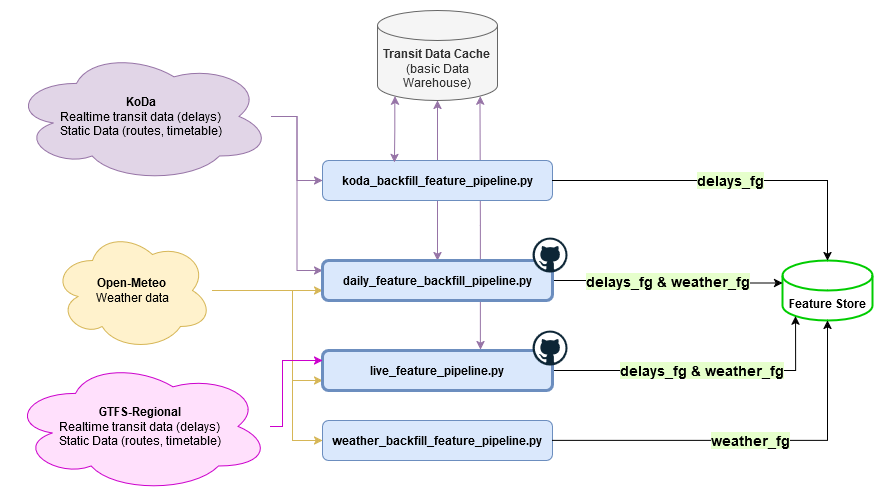
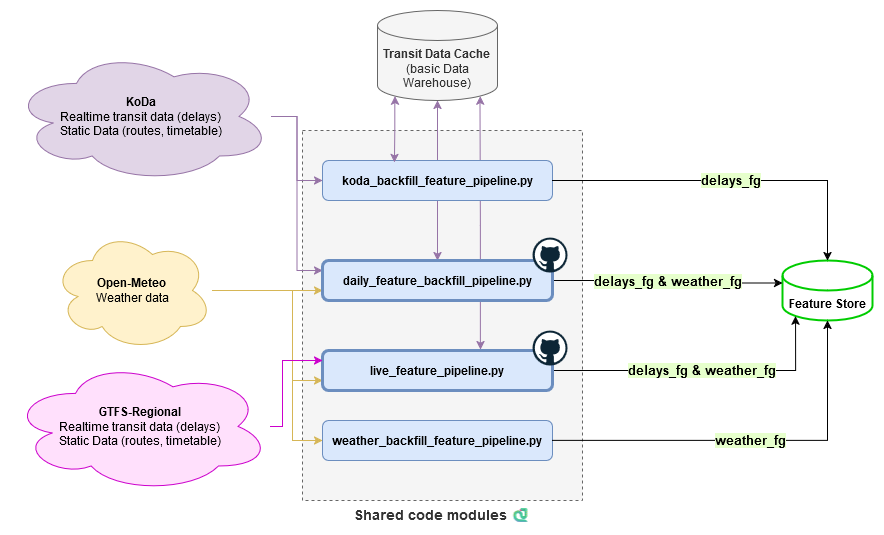
Highlight shared data processing code and update data collection diagram.

diff --git a/README.md b/README.md
@@ -38,6 +38,8 @@ While most transit APIs provide only real-time data which is updated and overwri
 
 This data is structured in the [GTFS](https://gtfs.org/documentation/overview/) format, but the snapshots needed to be merged and cleaned to be useful features.
 Additionally, any features we created from the historical data also needed to be created from real-time data ([GTFS-Regional API](https://www.trafiklab.se/api/gtfs-datasets/gtfs-regional/)) for our inference pipeline.
+To make this process easier, we created reusable data processing modules and functions, so the historical and live pipelines share
+multiple parts of their code (chiefly the feature transformations in `shared/features`).
 
 #### Historical Backfill
 *Note: The earliest tested successful historical request for operator `xt` was for `2022-02-01`*
